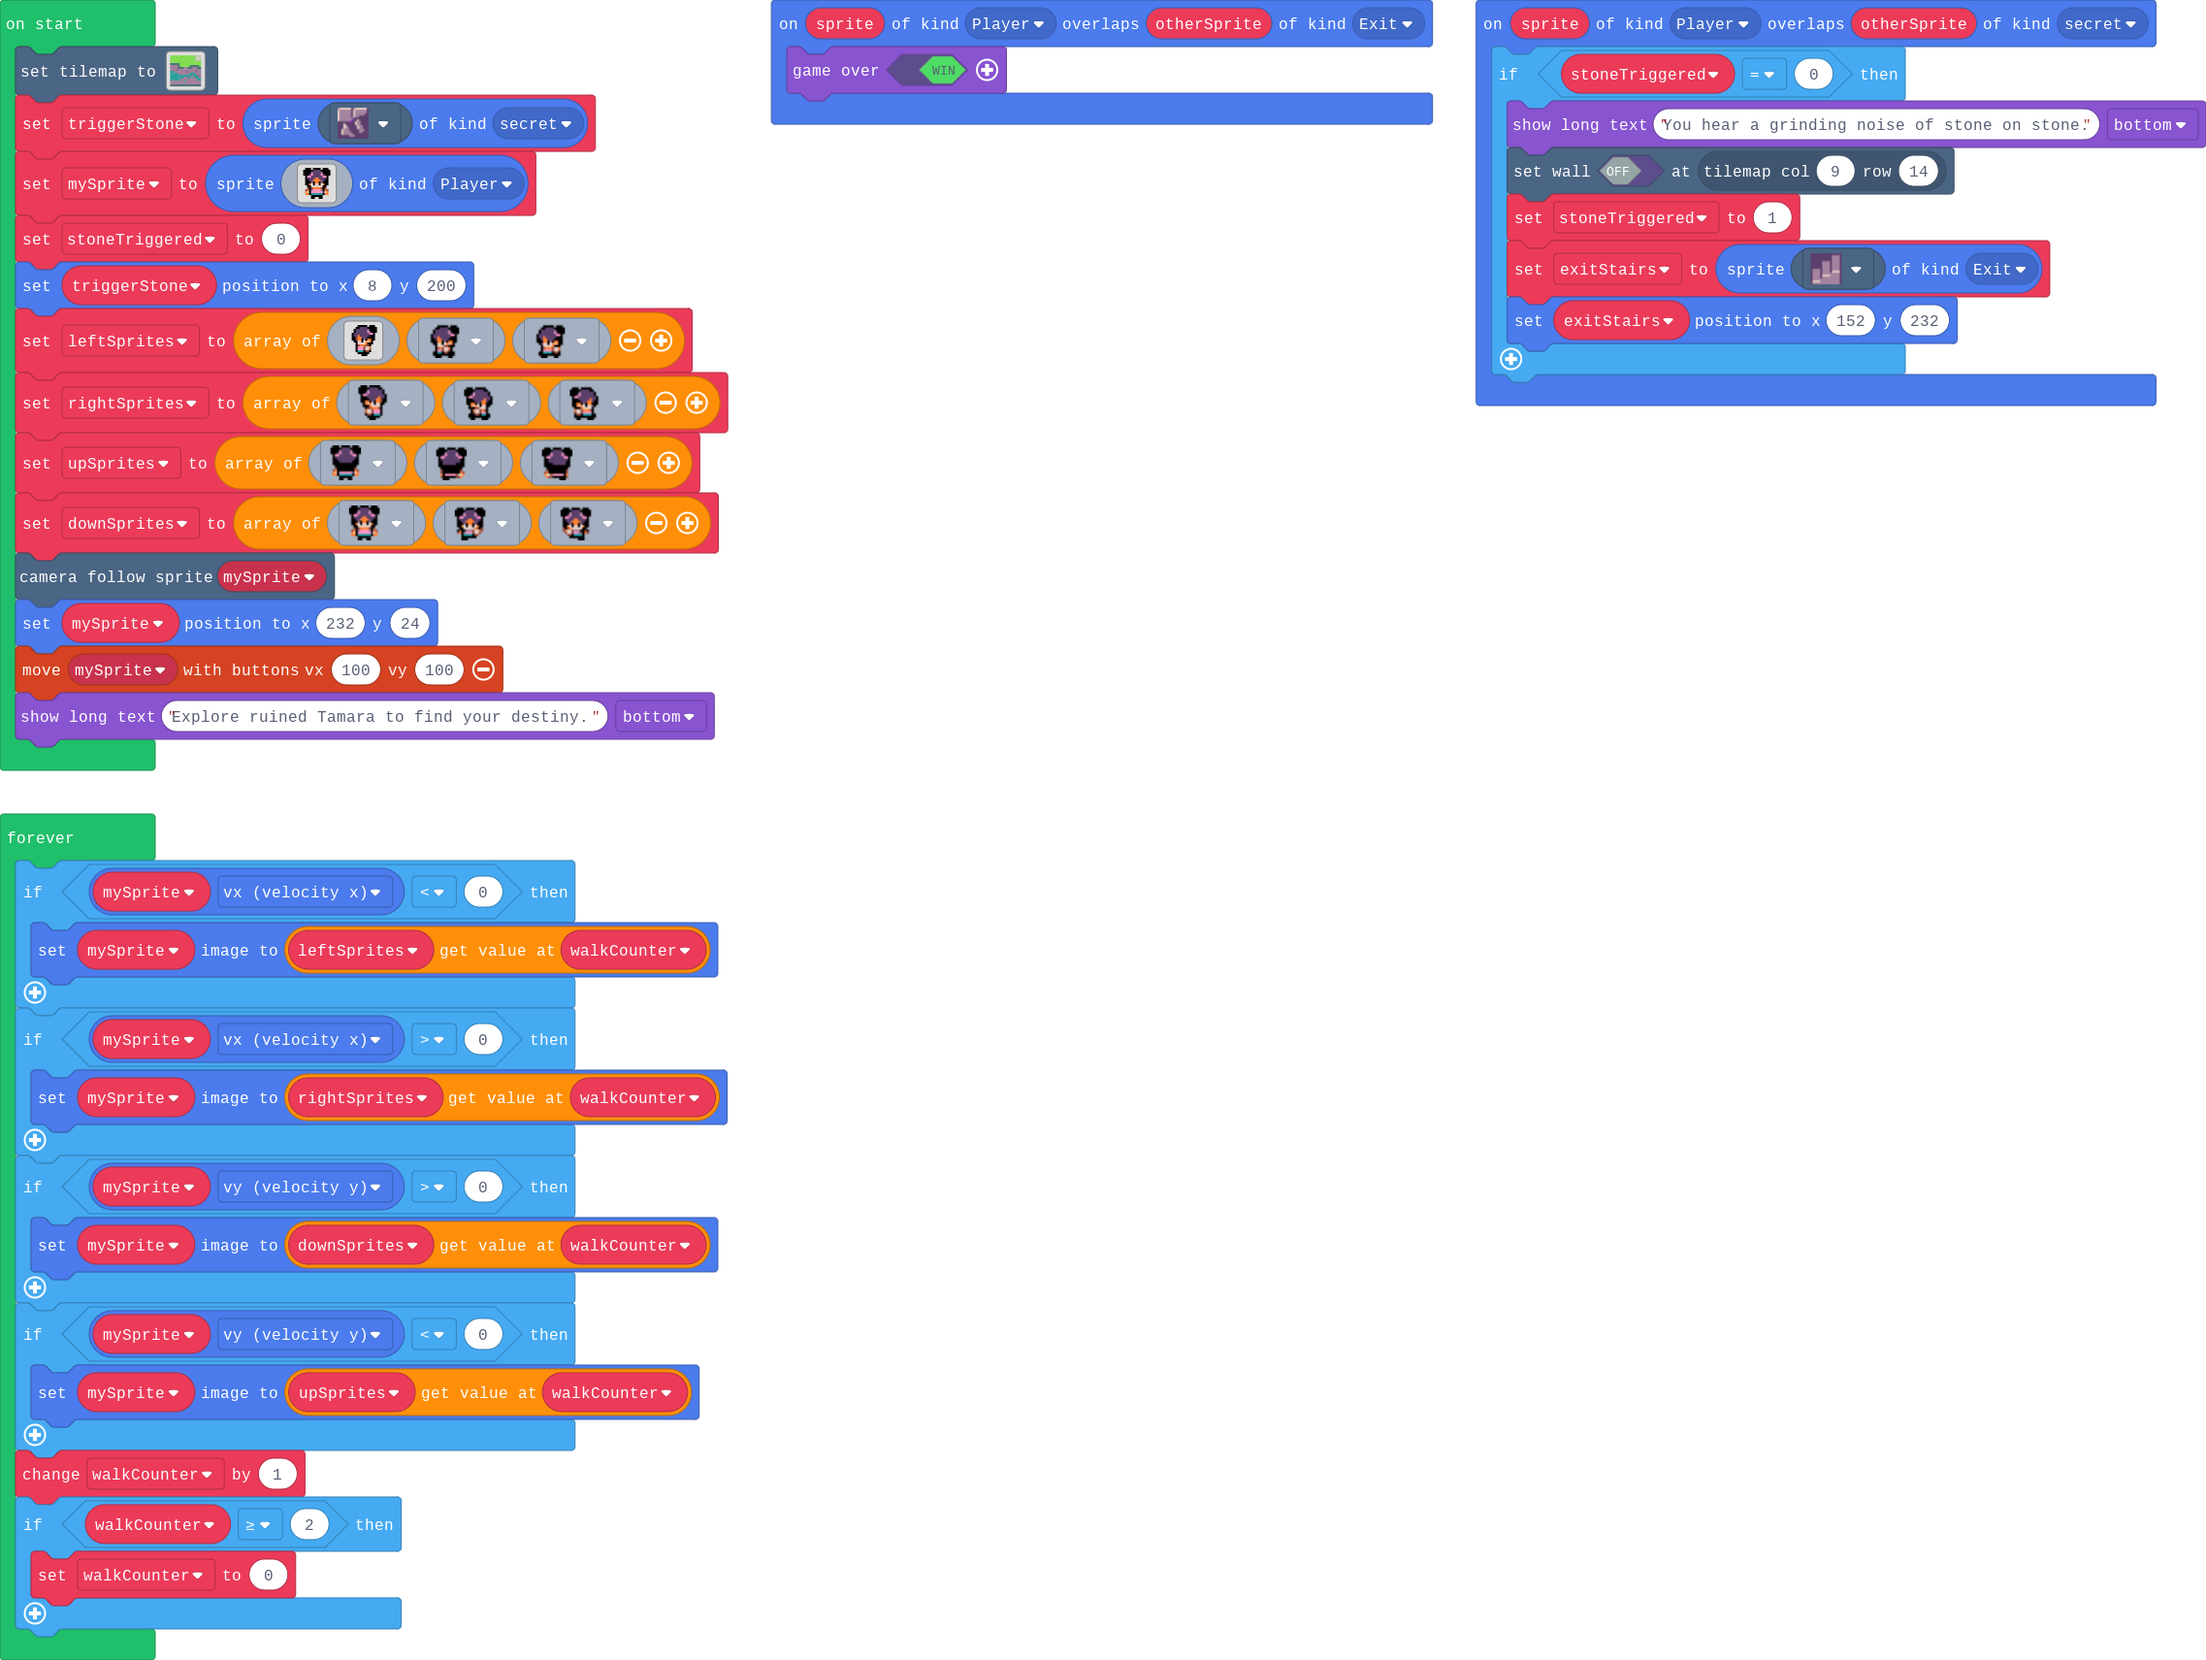
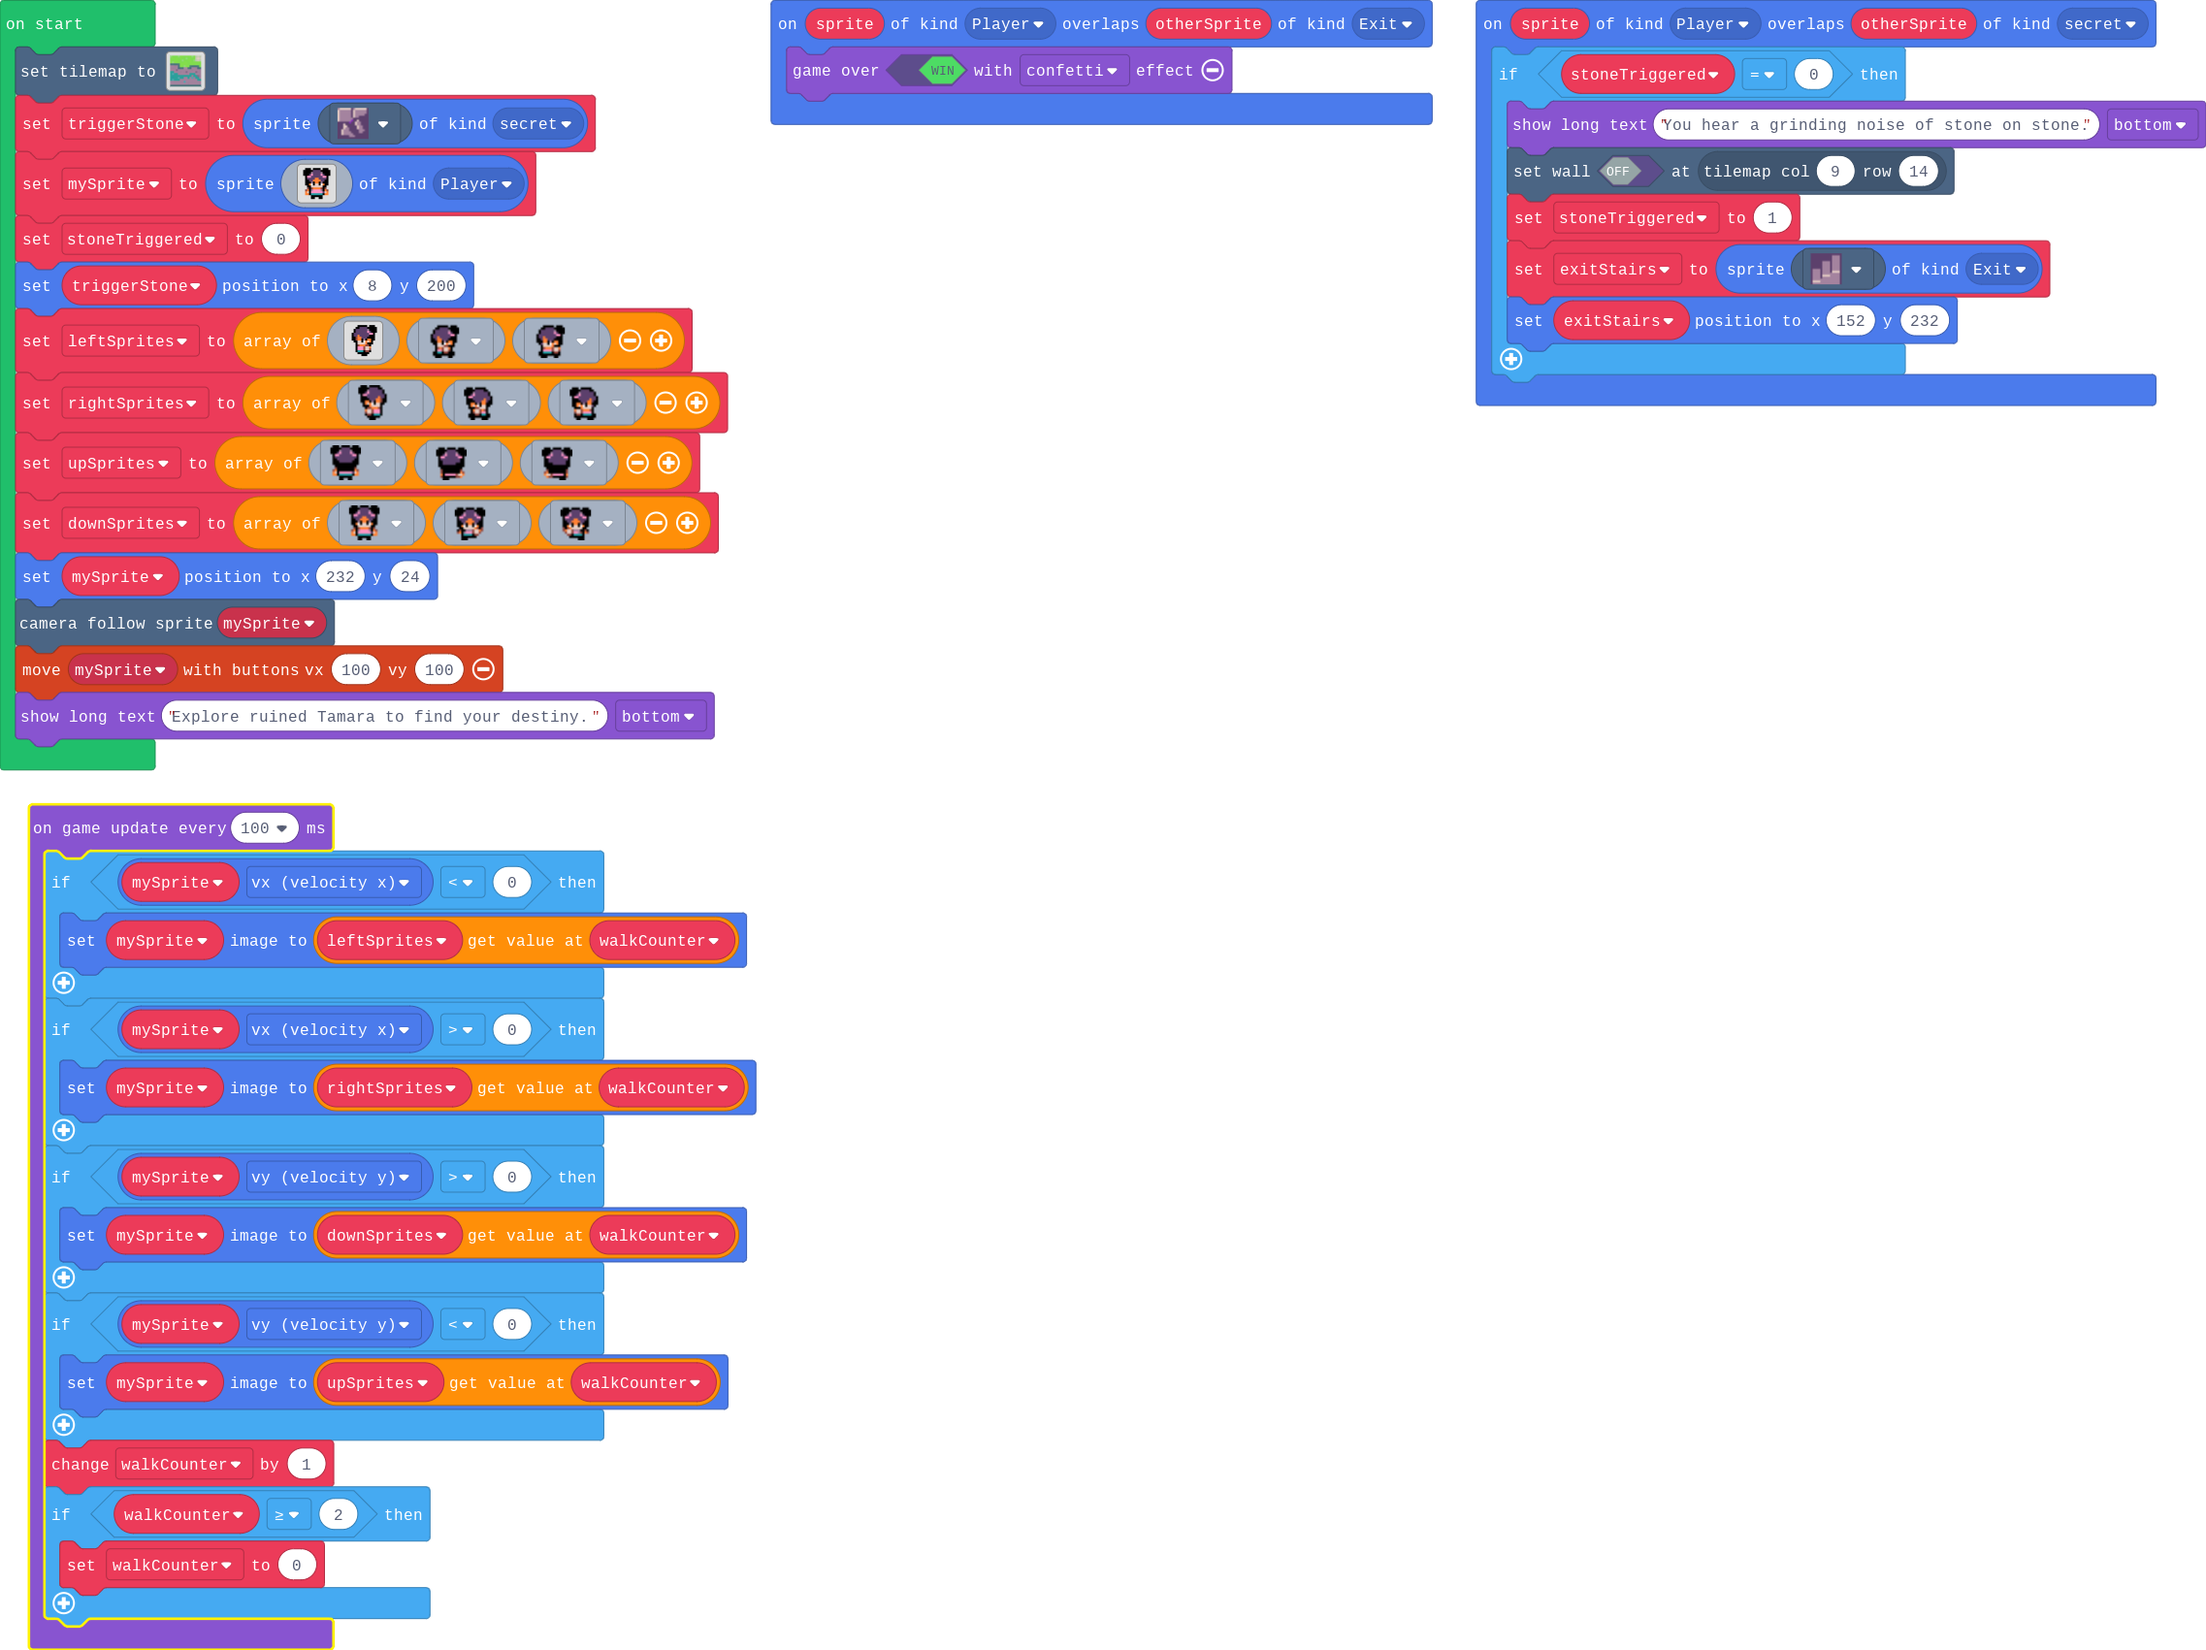
Switched from using "forever" block to "game udpate every 100ms" for character animation.

Changed region(s): [[0.0, 0.0312, 0.3434, 1.0], [0.6869, 0.0312, 0.9991, 0.2493], [0.4059, 0.0, 0.562, 0.0623]]

diff --git a/main.ts b/main.ts
@@ -34,7 +34,7 @@ sprites.onOverlap(SpriteKind.Player, SpriteKind.secret, function (sprite, otherS
     }
 })
 sprites.onOverlap(SpriteKind.Player, SpriteKind.Exit, function (sprite, otherSprite) {
-    game.over(true)
+    game.over(true, effects.confetti)
 })
 let walkCounter = 0
 let exitStairs: Sprite = null
@@ -104,11 +104,11 @@ let leftSprites = [img`
 let rightSprites = [sprites.builtin.villager1WalkRight3, sprites.builtin.villager1WalkRight2, sprites.builtin.villager1WalkRight1]
 let upSprites = [sprites.builtin.villager1WalkBack1, sprites.builtin.villager1WalkBack2, sprites.builtin.villager1WalkBack3]
 let downSprites = [sprites.builtin.villager1WalkFront1, sprites.builtin.villager1WalkFront2, sprites.builtin.villager1WalkFront3]
-scene.cameraFollowSprite(mySprite)
 mySprite.setPosition(232, 24)
+scene.cameraFollowSprite(mySprite)
 controller.moveSprite(mySprite, 100, 100)
 game.showLongText("Explore ruined Tamara to find your destiny. ", DialogLayout.Bottom)
-forever(function () {
+game.onUpdateInterval(100, function () {
     if (mySprite.vx < 0) {
         mySprite.setImage(leftSprites[walkCounter])
     }
